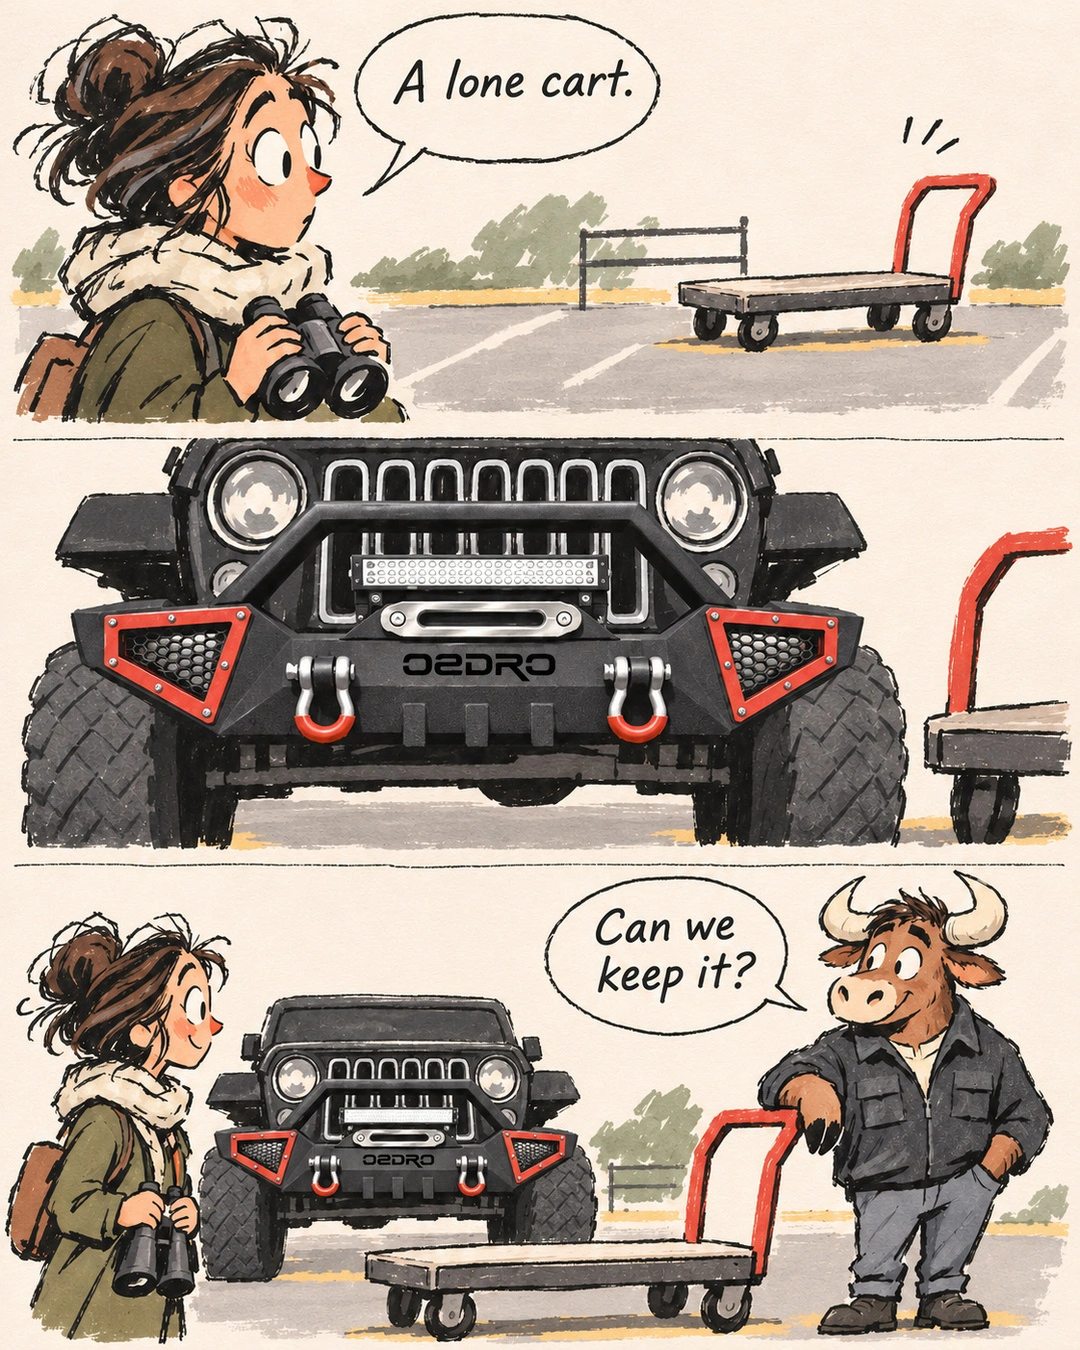
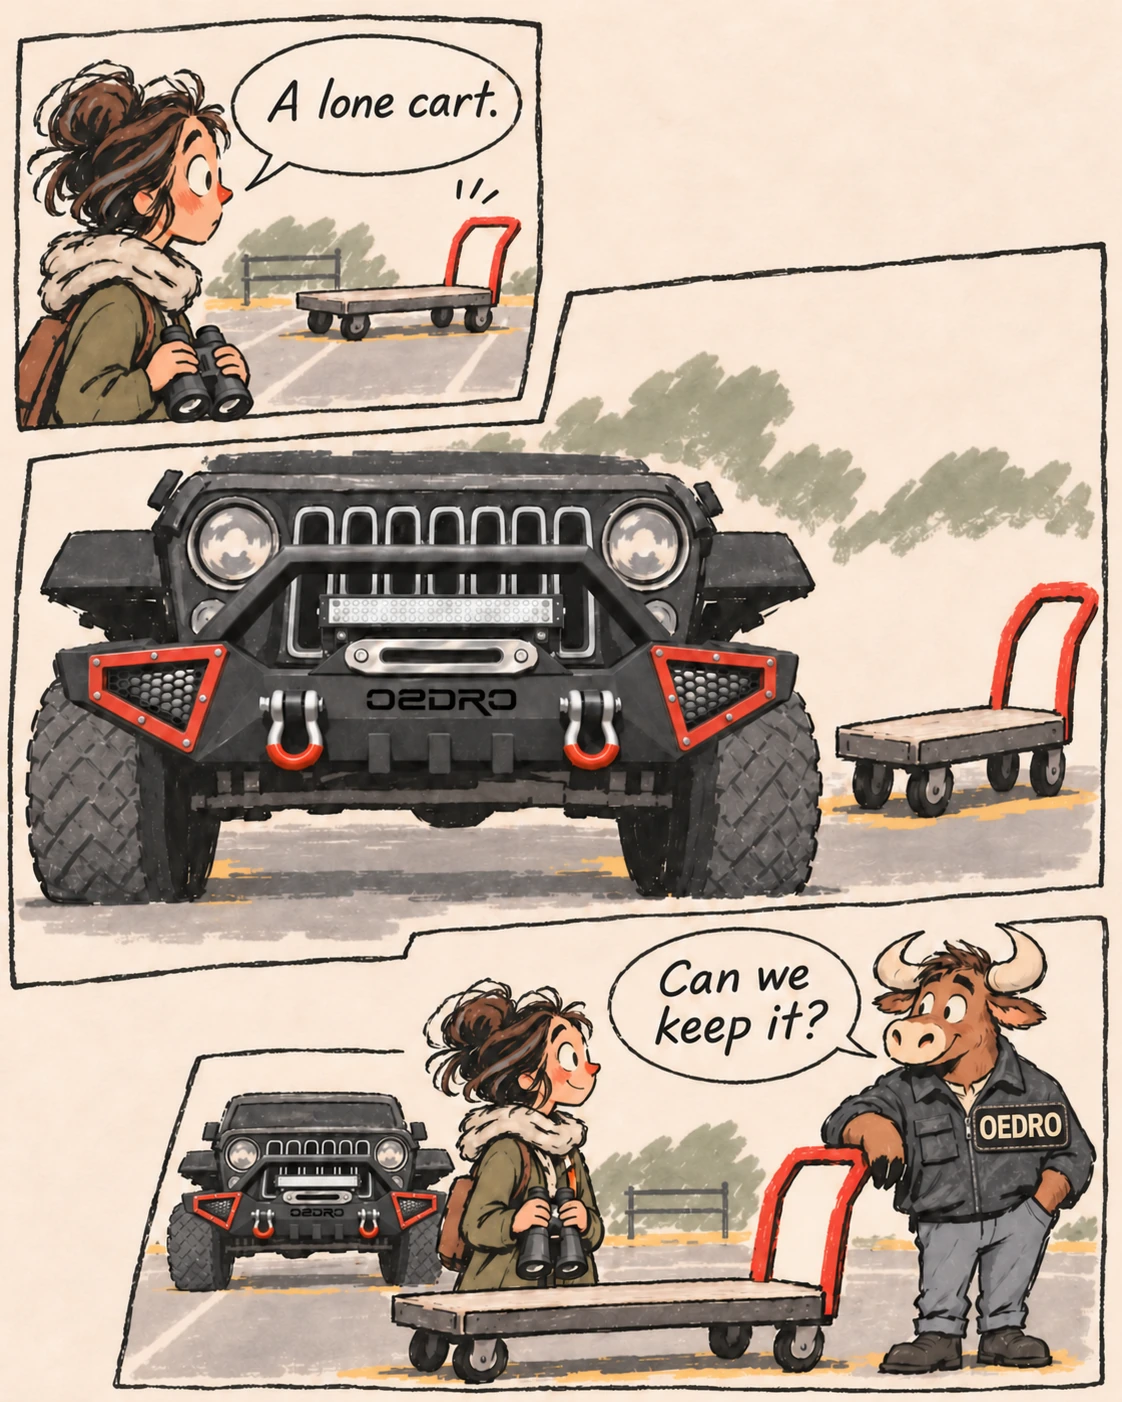
Redraw OEDRO comics for November 27 and 28

diff --git a/feed-oedro.html b/feed-oedro.html
@@ -499,7 +499,7 @@ One OEDRO running board later: “Tell them I drove.”</p></div>
 <h2 id="title-2026-11-27"><span class="day-date">11月27日</span><span class="day-week">周五</span></h2>
 <article class="post" data-post="11-27-03" data-purpose="comic seasonal trend bumper" data-schedule-status="In review – do not post yet">
 <div class="post-media">
-<button class="feed-large" type="button" aria-label="查看大图" data-title="Black Friday Shopping Cart" data-pages="assets/feed/oedro-11-27-03/1.webp"><img src="assets/feed/oedro-11-27-03/1.webp" alt="Black Friday Shopping Cart" width="1080" height="1350" loading="lazy"></button>
+<button class="feed-large" type="button" aria-label="查看大图" data-title="Black Friday Shopping Cart" data-pages="assets/feed/oedro-11-27-03/1.webp"><img src="assets/feed/oedro-11-27-03/1.webp" alt="Black Friday Shopping Cart" width="1122" height="1402" loading="lazy"></button>
 </div>
 <div class="post-body">
 <h3 lang="en">Black Friday Shopping Cart</h3>
@@ -514,7 +514,7 @@ One OEDRO running board later: “Tell them I drove.”</p></div>
 </article>
 <article class="post" data-post="11-27-04" data-purpose="comic seasonal tonneau-cover" data-schedule-status="In review – do not post yet">
 <div class="post-media">
-<button class="feed-large" type="button" aria-label="查看大图" data-title="Cute Truck" data-pages="assets/feed/oedro-11-27-04/1.webp"><img src="assets/feed/oedro-11-27-04/1.webp" alt="Cute Truck" width="1080" height="1350" loading="lazy"></button>
+<button class="feed-large" type="button" aria-label="查看大图" data-title="Cute Truck" data-pages="assets/feed/oedro-11-27-04/1.webp"><img src="assets/feed/oedro-11-27-04/1.webp" alt="Cute Truck" width="1122" height="1402" loading="lazy"></button>
 </div>
 <div class="post-body">
 <h3 lang="en">Cute Truck</h3>
@@ -536,7 +536,7 @@ One OEDRO running board later: “Tell them I drove.”</p></div>
 </div>
 <div class="post-body">
 <h3 lang="en">The Bodyguard</h3>
-<p class="post-context"><span class="post-status" data-status="review">待审 <span lang="en">In review</span></span> · 图稿需重做 <span lang="en">Needs rework</span> · 三格都在同一角度看车门和靴子，下一版要让人看见雪怎样落入脚垫。 <span lang="en">All three panels repeat the door-level view. Show where the snow lands in the floor liner.</span></p>
+<p class="post-context"><span class="post-status" data-status="review">待审 <span lang="en">In review</span></span></p>
 <div class="post-platforms"><div class="post-platform-switch" role="group" aria-label="平台"><button type="button" data-platform="Instagram" aria-pressed="true">Instagram</button><button type="button" data-platform="Facebook" aria-pressed="false">Facebook</button><button type="button" data-platform="X" aria-pressed="false">X</button><button type="button" data-platform="Threads" aria-pressed="false">Threads</button></div><button type="button" class="post-copy">复制配文</button></div>
 <div class="post-caption" data-feed-platform="Instagram"><p class="feed-caption" lang="en">One snowy boot showed up at the truck. The OEDRO floor liner put on its headset. Send this to whoever treats the first bit of snow in the cab like an incident report.</p></div>
 <div class="post-caption" data-feed-platform="Facebook" hidden><p class="feed-caption" lang="en">A passenger stepped in with one snowy boot. The OEDRO floor liner treated it like a full security briefing.</p></div>
@@ -552,7 +552,7 @@ One OEDRO running board later: “Tell them I drove.”</p></div>
 </div>
 <div class="post-body">
 <h3 lang="en">Two Locks</h3>
-<p class="post-context"><span class="post-status" data-status="review">待审 <span lang="en">In review</span></span> · 图稿需重做 <span lang="en">Needs rework</span> · 末格同时出现两把钥匙，看不出浣熊到底被哪个锁拦住。 <span lang="en">Two keys appear in the final panel, making the second lock’s role unclear.</span></p>
+<p class="post-context"><span class="post-status" data-status="review">待审 <span lang="en">In review</span></span></p>
 <div class="post-platforms"><div class="post-platform-switch" role="group" aria-label="平台"><button type="button" data-platform="Instagram" aria-pressed="true">Instagram</button><button type="button" data-platform="Facebook" aria-pressed="false">Facebook</button><button type="button" data-platform="X" aria-pressed="false">X</button><button type="button" data-platform="Threads" aria-pressed="false">Threads</button></div><button type="button" class="post-copy">复制配文</button></div>
 <div class="post-caption" data-feed-platform="Instagram"><p class="feed-caption" lang="en">The raccoon swung the OEDRO toolbox out and thought he was in. Then Bruno showed up with the key to the lid. Send this to the friend who always celebrates a little early.</p></div>
 <div class="post-caption" data-feed-platform="Facebook" hidden><p class="feed-caption" lang="en">The raccoon swung the OEDRO toolbox out. The lid stayed shut. Bruno knew exactly where the key was.</p></div>
